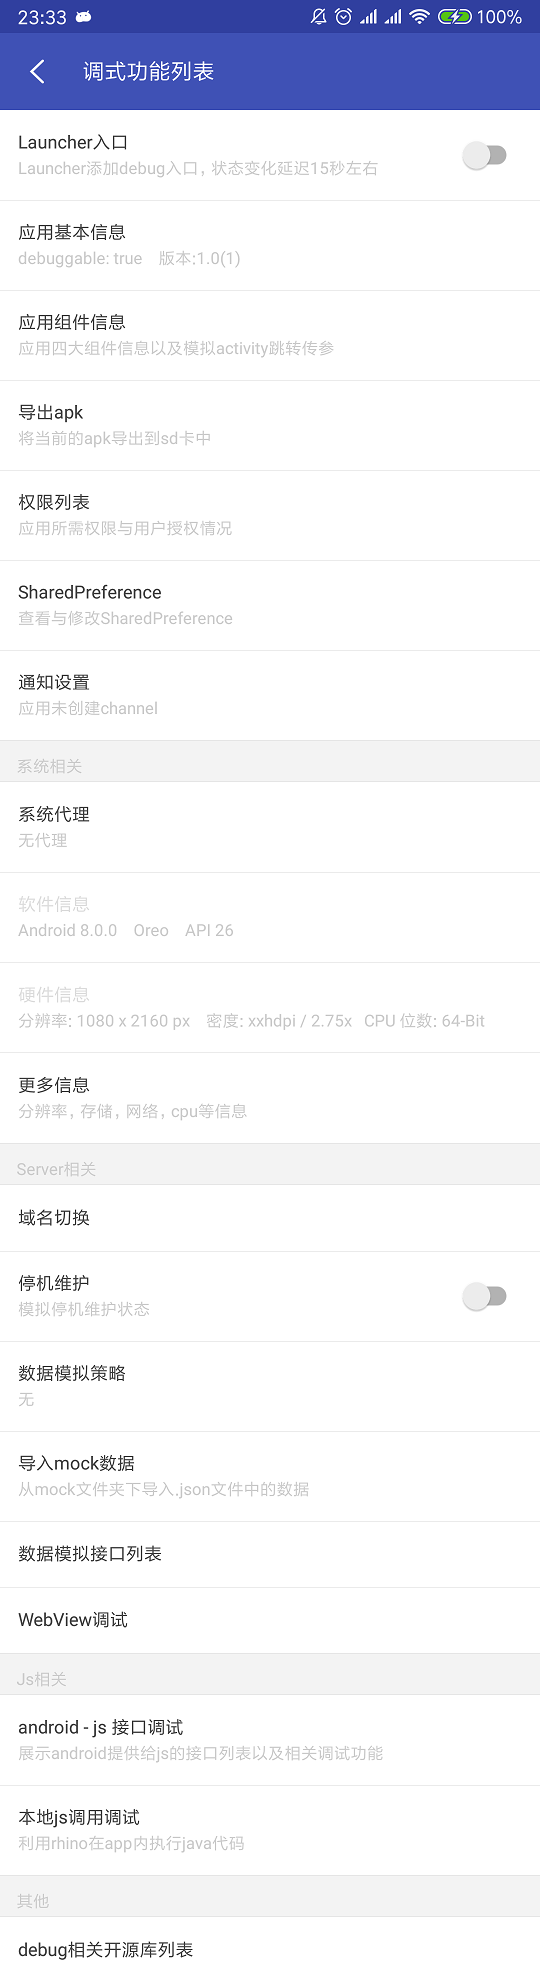
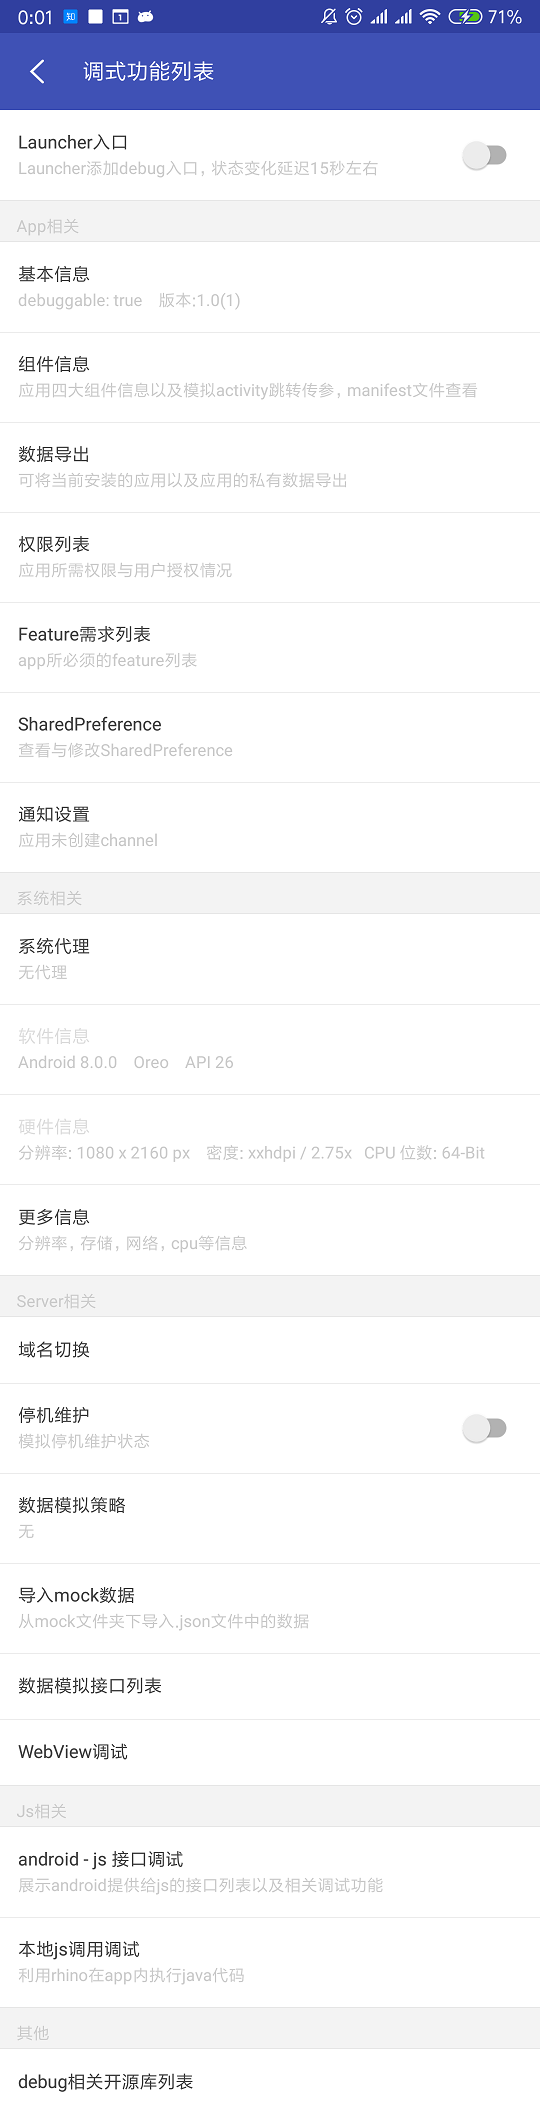
0.9.4 release
页面跳转添加flags参数
添加service启动传参测试
新增应用数据导出
manifest导出与查看
添加App required Feature列表
添加 更多信息 - Feature列表

diff --git a/README.md b/README.md
@@ -1,10 +1,10 @@
 ## debugger
 
 ```groovy
-debugApi 'com.su:debugger.annotations:0.9.3'
-debugAnnotationProcessor 'com.su:debugger.compiler:0.9.3'
-debugImplementation 'com.su:debugger:0.9.3'
-releaseImplementation 'com.su:debugger-no-op:0.9.3'
+debugApi 'com.su:debugger.annotations:0.9.4'
+debugAnnotationProcessor 'com.su:debugger.compiler:0.9.4'
+debugImplementation 'com.su:debugger:0.9.4'
+releaseImplementation 'com.su:debugger-no-op:0.9.4'
 ```
 
 需要将module名称传给compiler
